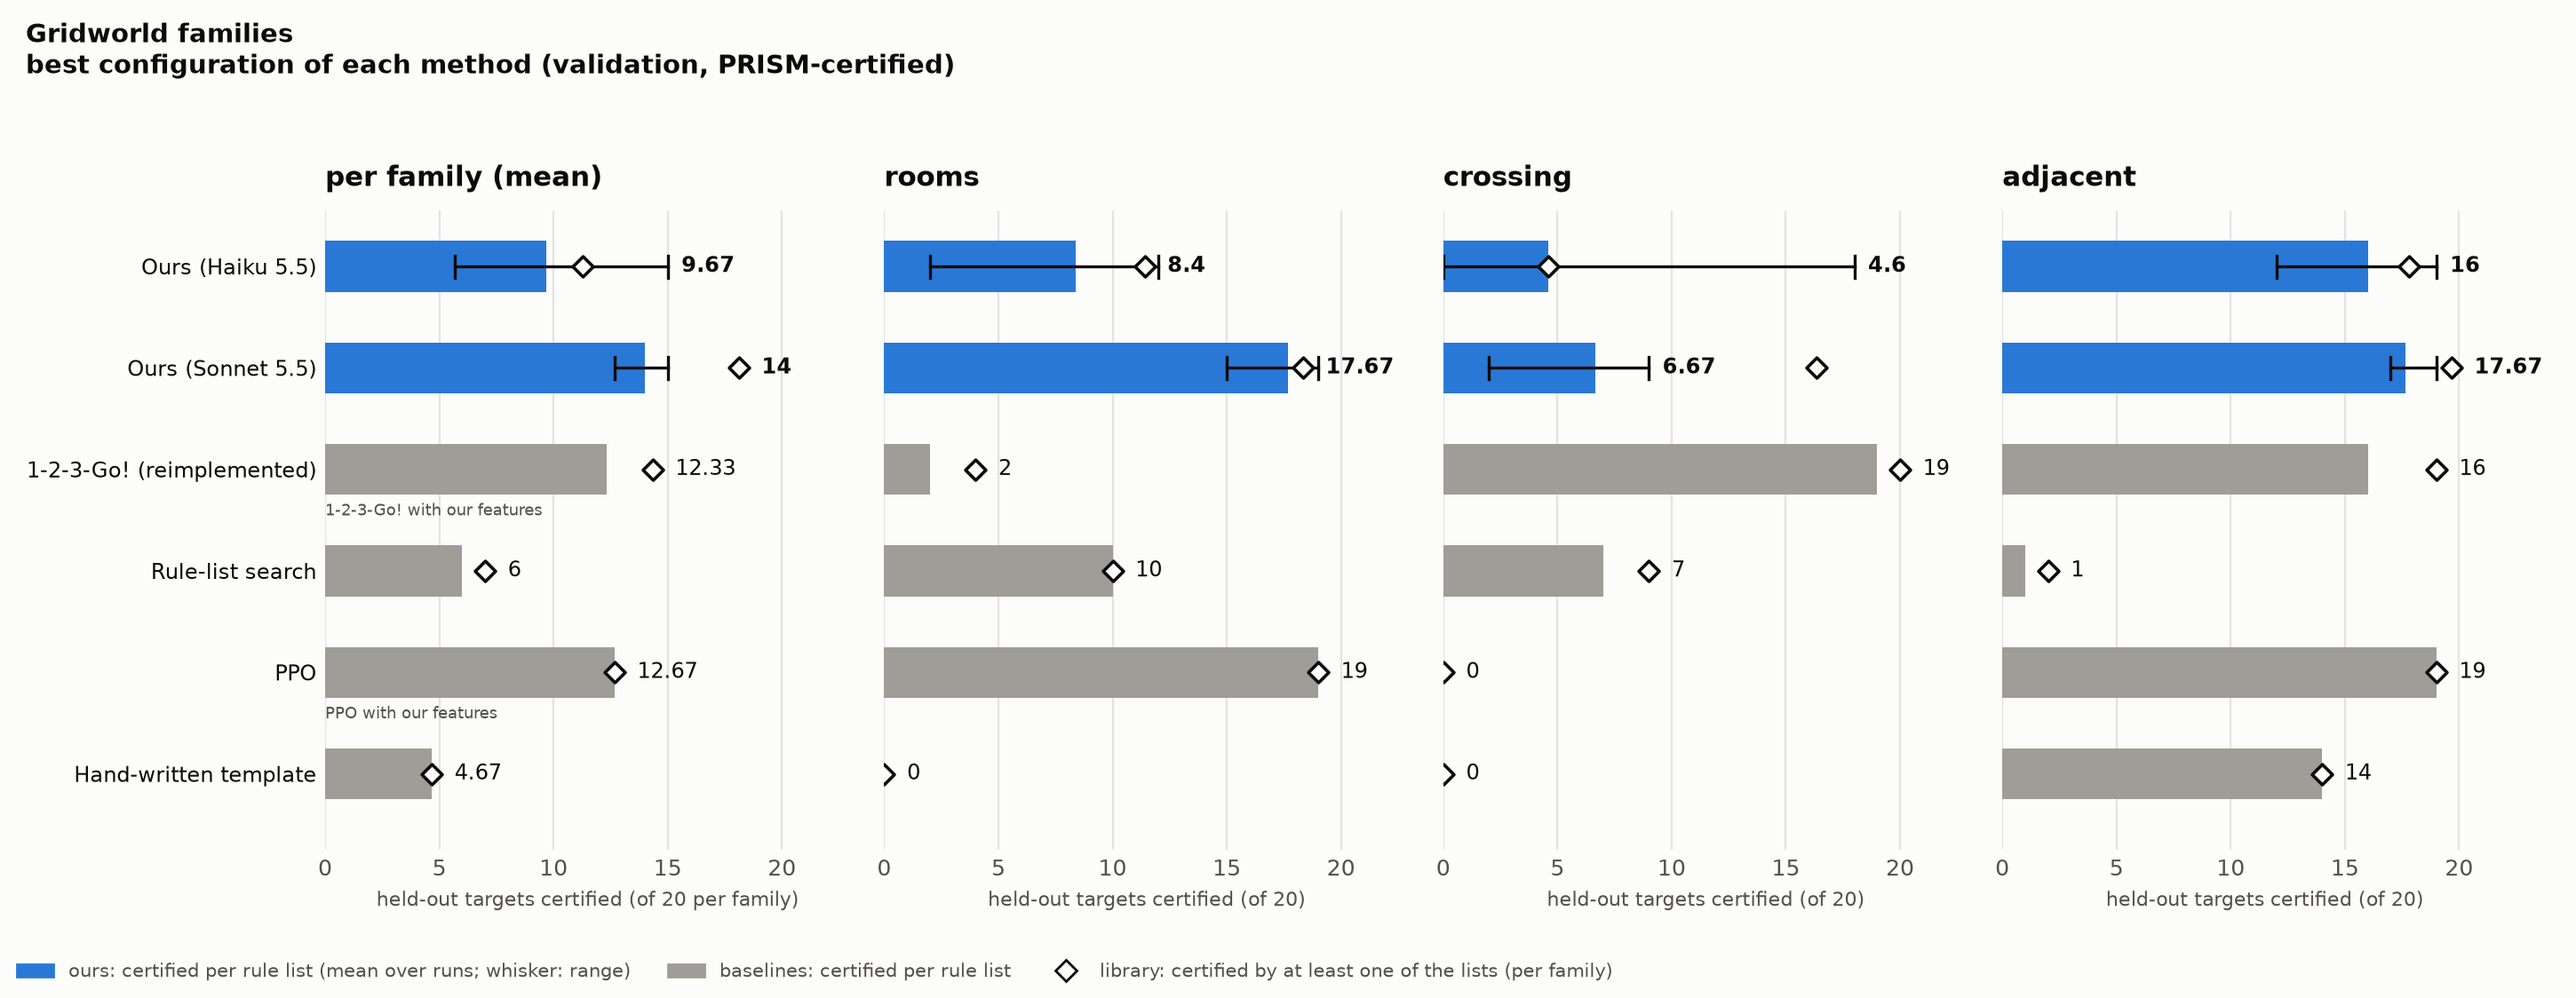
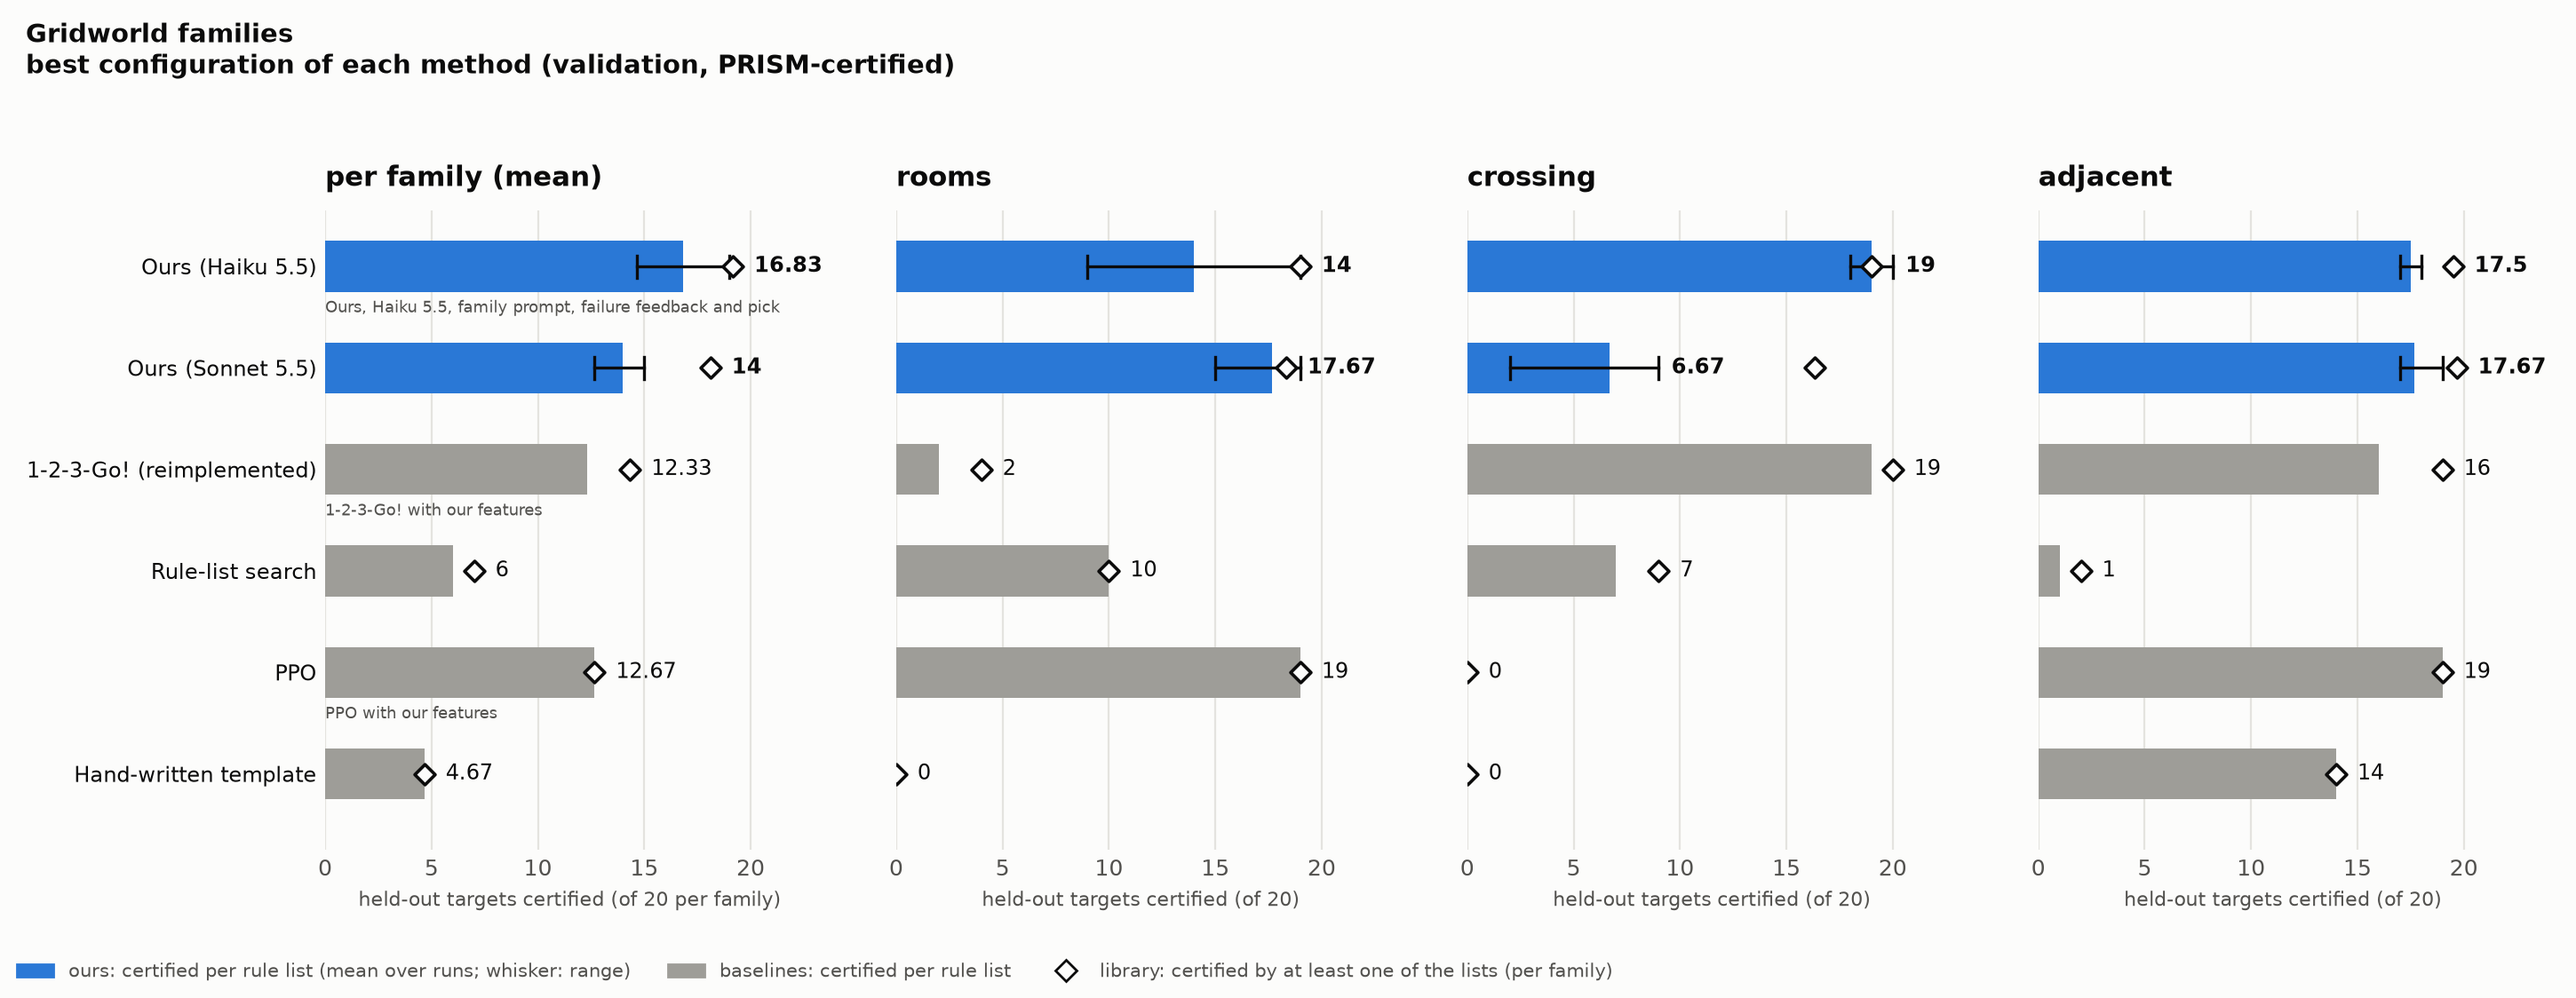
RQ1 rebuilt: the new pipeline on families (16.83 per list, 2 of 3 repeats) is our best configuration there

diff --git a/PRISM-Guided-Learning/out/results/experiments/rq1_comparison/REPORT.md b/PRISM-Guided-Learning/out/results/experiments/rq1_comparison/REPORT.md
@@ -43,7 +43,8 @@ Targets 16-35,76-95,136-155: 60 held out (each list's own training instances are
 
 | method | configuration | figure | runs | certified | every target | best list | library | ties open | sets solved | $ / set |
 |---|---|---|---|---|---|---|---|---|---|---|
-| Ours (Haiku 5.5) | **Ours, Haiku 5.5** | ✓ | 5 | 9.67 (5.67–15.00) | 19.20 (9.33–30.67) | 17 (12–19) | 33.8 (24.0–56.0) | 3.07 (0.33–5.67) | 40% (33%–67%) | 0.008 (0.007–0.011) |
+| Ours (Haiku 5.5) | **Ours, Haiku 5.5** |  | 5 | 9.67 (5.67–15.00) | 19.20 (9.33–30.67) | 17 (12–19) | 33.8 (24.0–56.0) | 3.07 (0.33–5.67) | 40% (33%–67%) | 0.008 (0.007–0.011) |
+| Ours (Haiku 5.5) | **Ours, Haiku 5.5, family prompt, failure feedback and pick** | ✓ | 2 | 16.83 (14.67–19.00) | 30.67 (29.33–32.00) | 19 (18–20) | 57.5 (56.0–59.0) | 15.83 (13.33–18.33) | 100% | 0.073 (0.072–0.074) |
 | Ours (Sonnet 5.5) | **Ours, Sonnet 5.5** | ✓ | 3 | 14.00 (12.67–15.00) | 32.33 (29.00–36.67) | 19 | 54.3 (45.0–59.0) | 6.56 (5.67–7.33) | 67% | 0.787 (0.663–0.932) |
 | 1-2-3-Go! (reimplemented) | 1-2-3-Go! (reimplemented: trees over raw variables) |  | – | 0.00 | 0.00 | 0 | 0.0 | 0.00 | – | – |
 | 1-2-3-Go! (reimplemented) | 1-2-3-Go! with our features | ✓ | – | 12.33 | 20.33 | 19 | 43.0 | 12.33 | – | – |
@@ -58,6 +59,7 @@ Per group (certified per rule list on its own group):
 |---|---|---|---|
 | Ours, Haiku 5.5 | 8.4 | 4.6 | 16.0 |
 | Ours, Sonnet 5.5 | 17.7 | 6.7 | 17.7 |
+| Ours, Haiku 5.5, family prompt, failure feedback and pick | 14.0 | 19.0 | 17.5 |
 | 1-2-3-Go! (reimplemented: trees over raw variables) | 0.0 | 0.0 | 0.0 |
 | 1-2-3-Go! with our features | 2.0 | 19.0 | 16.0 |
 | Rule-list search | 10.0 | 7.0 | 1.0 |
